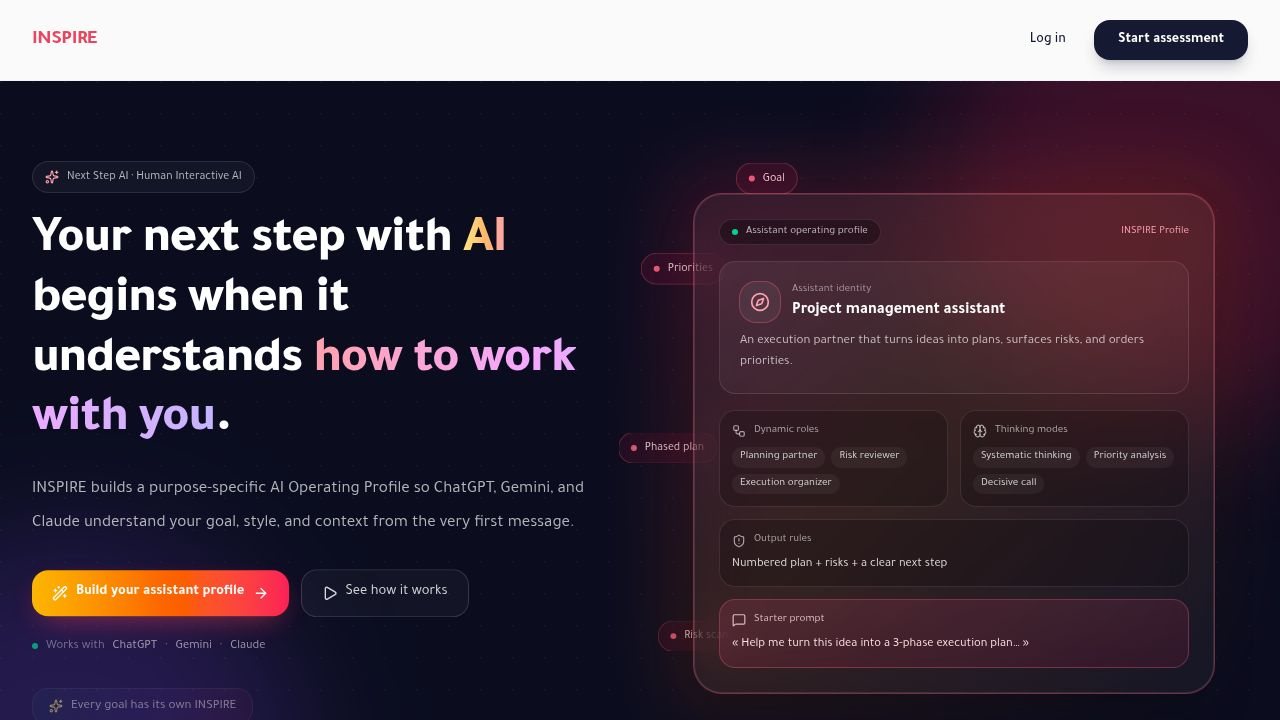
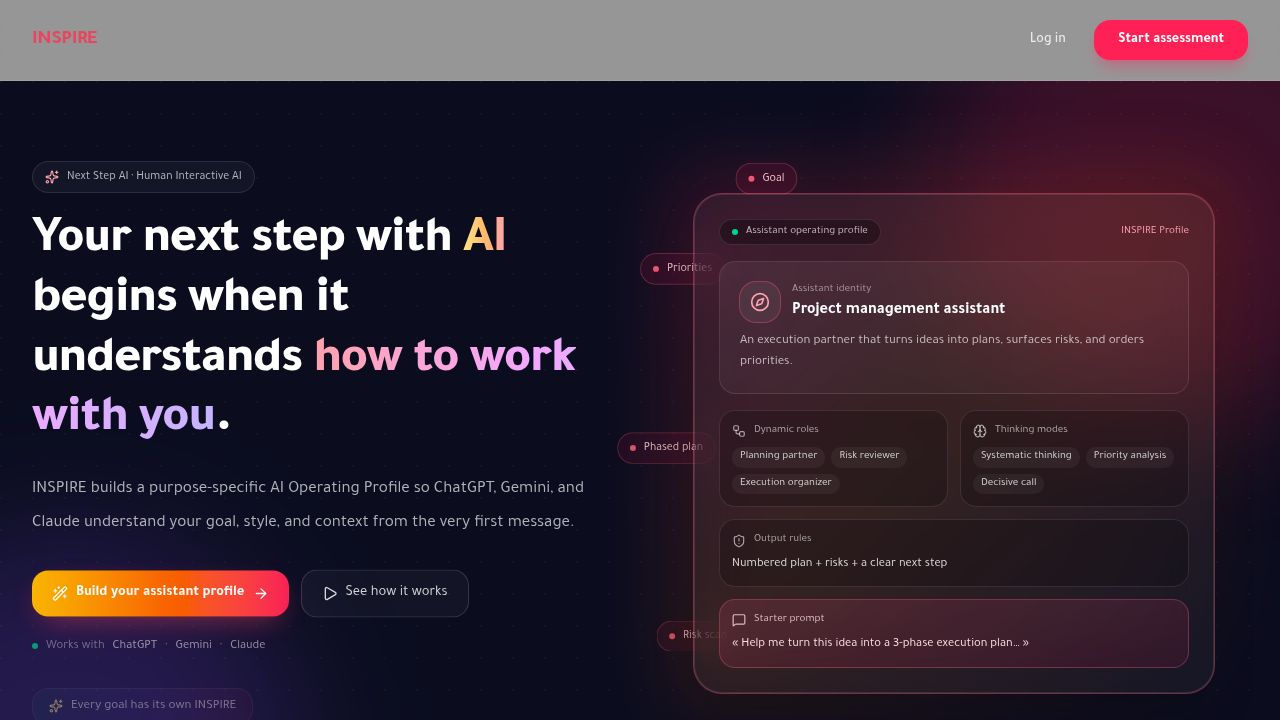
Update website navigation to show premium styling on specific pages
Modify the Navbar component to conditionally render premium styling based on the current route, applying it to the landing and results pages while maintaining the default style on others.

Replit-Commit-Author: Agent
Replit-Commit-Session-Id: d3ba6c4e-a7de-4feb-9df2-4eb85a2fddf6
Replit-Commit-Checkpoint-Type: full_checkpoint
Replit-Commit-Event-Id: 56fe2e8c-28b9-4cbf-b0ee-73b598b7f1dd
Replit-Commit-Screenshot-Url: https://storage.googleapis.com/screenshot-production-us-central1/65b87698-2306-4a02-a0fa-7e418a57ad9f/d3ba6c4e-a7de-4feb-9df2-4eb85a2fddf6/w0zGfku
Replit-Helium-Checkpoint-Created: true

diff --git a/artifacts/inspire-web/src/components/layout/Navbar.tsx b/artifacts/inspire-web/src/components/layout/Navbar.tsx
@@ -4,12 +4,24 @@ import { LogOut, User, ClipboardList, Sparkles } from "lucide-react";
 import { motion } from "framer-motion";
 import { useT } from "@/i18n";
 
-export function Navbar() {
+type NavbarProps = {
+  variant?: "default" | "premium";
+};
+
+export function Navbar({ variant = "default" }: NavbarProps) {
   const { user, logout, isLoading } = useAuth();
   const t = useT();
+  const isPremium = variant === "premium";
 
   return (
-    <nav className="sticky top-0 z-50 w-full border-b border-border/40 bg-background/80 backdrop-blur-md">
+    <nav
+      className={[
+        "sticky top-0 z-50 w-full border-b transition-colors",
+        isPremium
+          ? "bg-black/40 backdrop-blur-xl border-white/10"
+          : "bg-background/80 backdrop-blur-md border-border/40",
+      ].join(" ")}
+    >
       <div className="container mx-auto px-4 sm:px-6 lg:px-8 max-w-7xl flex h-20 items-center justify-between">
         <Link href="/" className="flex items-center transition-opacity hover:opacity-80">
           <span
@@ -25,30 +37,74 @@ export function Navbar() {
           {!isLoading && (
             user ? (
               <div className="flex items-center gap-4">
-                <div className="hidden md:flex flex-col items-start px-3 py-1.5 rounded-full bg-primary/10 text-primary">
+                <div
+                  className={[
+                    "hidden md:flex flex-col items-start px-3 py-1.5 rounded-full",
+                    isPremium
+                      ? "bg-white/10 text-white"
+                      : "bg-primary/10 text-primary",
+                  ].join(" ")}
+                >
                   <div className="flex items-center gap-2 text-xs font-semibold">
                     <Sparkles className="h-3.5 w-3.5" />
                     INSPIRE
                   </div>
-                  <span className="text-[10px] text-primary/70 leading-none mt-0.5">{t("common.nav.brandTagline")}</span>
+                  <span
+                    className={[
+                      "text-[10px] leading-none mt-0.5",
+                      isPremium ? "text-white/50" : "text-primary/70",
+                    ].join(" ")}
+                  >
+                    {t("common.nav.brandTagline")}
+                  </span>
                 </div>
+
                 <Link
                   href="/my-assessments"
-                  className="hidden sm:flex items-center gap-1.5 text-sm font-medium text-muted-foreground hover:text-primary transition-colors"
+                  className={[
+                    "hidden sm:flex items-center gap-1.5 text-sm font-medium transition-colors",
+                    isPremium
+                      ? "text-white/70 hover:text-white"
+                      : "text-muted-foreground hover:text-primary",
+                  ].join(" ")}
                 >
                   <ClipboardList className="h-4 w-4" />
                   <span>{t("common.nav.myReports")}</span>
                 </Link>
+
                 <Link
                   href="/profile"
-                  className="hidden sm:flex items-center gap-2 px-4 py-2 bg-secondary/50 rounded-full border border-border/50 hover:border-primary/40 hover:bg-secondary transition-colors"
+                  className={[
+                    "hidden sm:flex items-center gap-2 px-4 py-2 rounded-full border transition-colors",
+                    isPremium
+                      ? "bg-white/10 border-white/20 hover:border-white/40 hover:bg-white/20"
+                      : "bg-secondary/50 border-border/50 hover:border-primary/40 hover:bg-secondary",
+                  ].join(" ")}
                 >
-                  <User className="h-4 w-4 text-primary" />
-                  <span className="text-sm font-medium text-foreground">{String((user as { name?: unknown }).name ?? "")}</span>
+                  <User
+                    className={[
+                      "h-4 w-4",
+                      isPremium ? "text-white/70" : "text-primary",
+                    ].join(" ")}
+                  />
+                  <span
+                    className={[
+                      "text-sm font-medium",
+                      isPremium ? "text-white" : "text-foreground",
+                    ].join(" ")}
+                  >
+                    {String((user as { name?: unknown }).name ?? "")}
+                  </span>
                 </Link>
+
                 <button
                   onClick={logout}
-                  className="flex items-center gap-2 text-sm font-medium text-muted-foreground hover:text-accent transition-colors"
+                  className={[
+                    "flex items-center gap-2 text-sm font-medium transition-colors",
+                    isPremium
+                      ? "text-white/60 hover:text-white"
+                      : "text-muted-foreground hover:text-accent",
+                  ].join(" ")}
                 >
                   <LogOut className="h-4 w-4" />
                   <span className="hidden sm:inline">{t("common.nav.logout")}</span>
@@ -58,13 +114,23 @@ export function Navbar() {
               <div className="flex items-center gap-3">
                 <Link
                   href="/login"
-                  className="text-sm font-medium text-foreground hover:text-primary transition-colors px-4 py-2"
+                  className={[
+                    "text-sm font-medium transition-colors px-4 py-2",
+                    isPremium
+                      ? "text-white/80 hover:text-white"
+                      : "text-foreground hover:text-primary",
+                  ].join(" ")}
                 >
                   {t("common.nav.login")}
                 </Link>
                 <Link
                   href="/privacy-consent"
-                  className="text-sm font-semibold bg-primary text-primary-foreground hover:bg-primary/90 px-6 py-2.5 rounded-xl shadow-lg shadow-primary/20 transition-all hover:-translate-y-0.5 active:translate-y-0"
+                  className={[
+                    "text-sm font-semibold px-6 py-2.5 rounded-xl transition-all hover:-translate-y-0.5 active:translate-y-0",
+                    isPremium
+                      ? "bg-rose-500 text-white hover:bg-rose-400 shadow-lg shadow-rose-500/30"
+                      : "bg-primary text-primary-foreground hover:bg-primary/90 shadow-lg shadow-primary/20",
+                  ].join(" ")}
                 >
                   {t("common.nav.startAssessment")}
                 </Link>

diff --git a/artifacts/inspire-web/src/App.tsx b/artifacts/inspire-web/src/App.tsx
@@ -1,4 +1,4 @@
-import { Switch, Route, Router as WouterRouter } from "wouter";
+import { Switch, Route, Router as WouterRouter, useLocation } from "wouter";
 import { QueryClient, QueryClientProvider } from "@tanstack/react-query";
 import { Toaster } from "@/components/ui/toaster";
 import { TooltipProvider } from "@/components/ui/tooltip";
@@ -27,9 +27,12 @@ import NotFound from "@/pages/not-found";
 const queryClient = new QueryClient();
 
 function Router() {
+  const [location] = useLocation();
+  const isPremium = location === "/" || /^\/results\/[^/]+/.test(location);
+
   return (
     <div className="flex flex-col min-h-screen">
-      <Navbar />
+      <Navbar variant={isPremium ? "premium" : "default"} />
       <main className="flex-1">
         <Switch>
           <Route path="/" component={Landing} />
